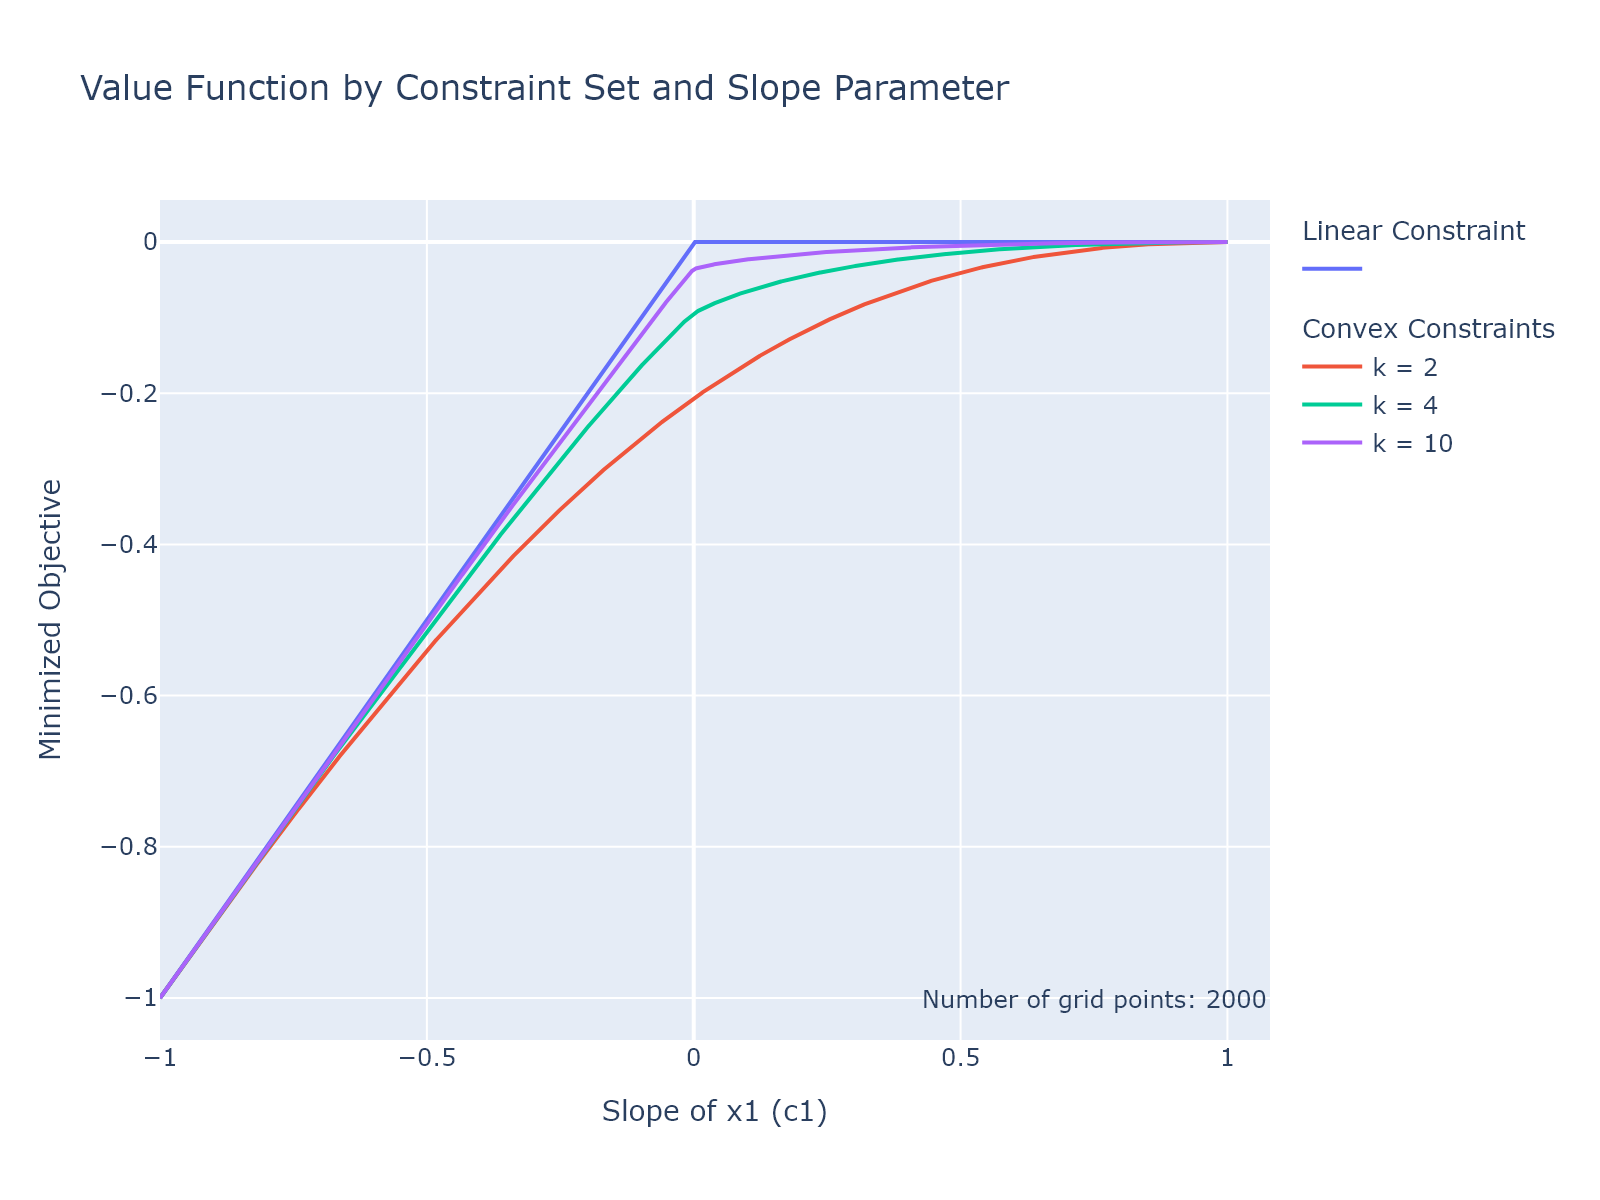
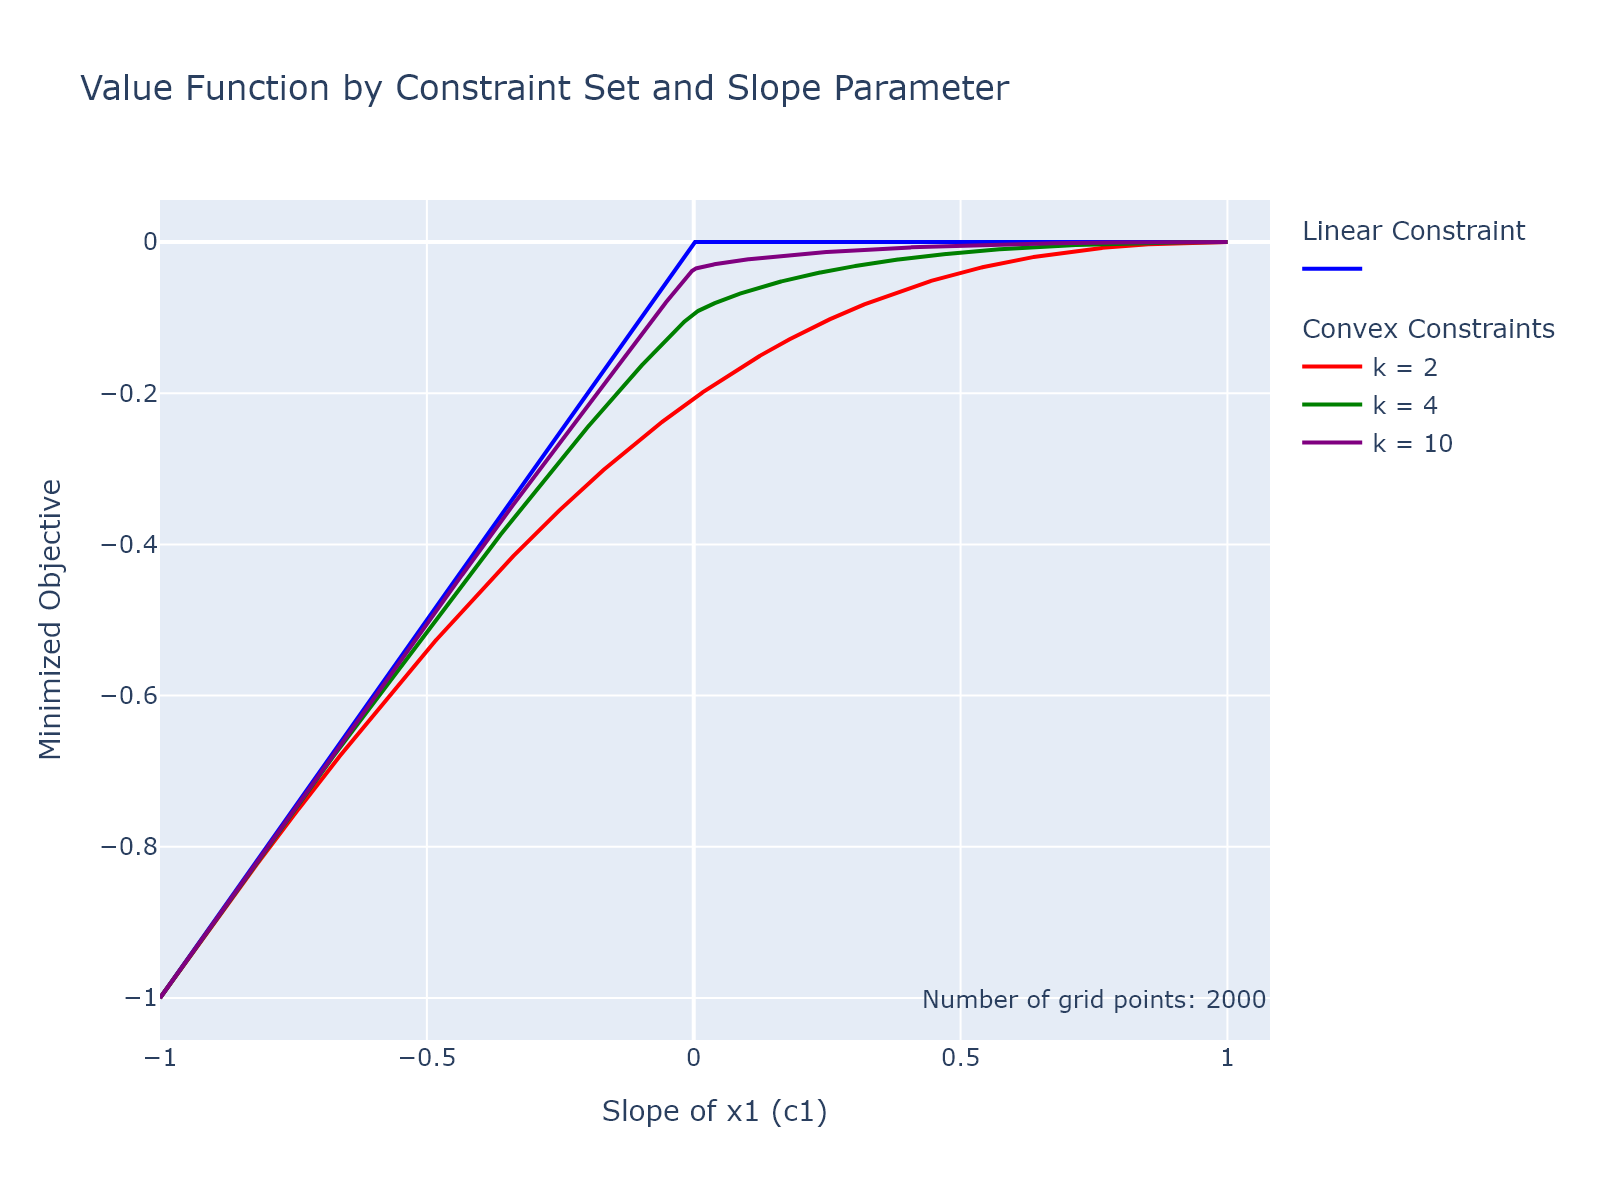
Adjust plots.

diff --git a/src/lp_relax/plots/task_plot_relaxation_bootstrap.py b/src/lp_relax/plots/task_plot_relaxation_bootstrap.py
@@ -88,42 +88,74 @@ for id_, kwargs in ID_TO_KWARGS.items():
         """Plot coverage by method and slope parameter."""
         combined = pd.read_pickle(path_to_combined)
 
-        data = combined.groupby(["method", "slope"]).mean().reset_index()
+        color_to_k_convex = {
+            "linear": "blue",
+            "convex_sphere_2": "red",
+            "convex_sphere_4": "green",
+            "convex_sphere_10": "purple",
+        }
+
+        data = combined.groupby(["method", "slope", "num_obs"]).mean().reset_index()
+
+        num_obs_to_plot = data["num_obs"].unique()
+        methods_to_plot = data.method.unique()
 
         fig = go.Figure()
 
-        for method in data.method.unique():
-            sub_data = data[data.method == method]
+        num_obs_to_dash = {1_000: "solid", 10_000: "dash"}
 
-            fig.add_trace(
-                go.Scatter(
-                    y=sub_data[stat_to_plot],
-                    x=sub_data["slope"],
-                    mode="lines+markers",
-                    name=f"{method.replace('_', ' ').capitalize()}",
-                ),
-            )
+        for num_obs in num_obs_to_plot:
+            for method in methods_to_plot:
+                sub_data = data[data.method == method]
+                sub_data = sub_data[sub_data.num_obs == num_obs]
+
+                fig.add_trace(
+                    go.Scatter(
+                        y=sub_data[stat_to_plot],
+                        x=sub_data["slope"],
+                        mode="lines+markers",
+                        line=dict(
+                            dash=num_obs_to_dash[num_obs],
+                            color=color_to_k_convex[method],
+                        ),
+                        marker=dict(color=color_to_k_convex[method]),
+                        name=f"N={num_obs}",
+                        legendgroup=method,
+                        legendgrouptitle=dict(
+                            text=f"{method.replace('_', ' ').capitalize()}"
+                        ),
+                    ),
+                )
 
         stat_to_title = {
             "covers_lower_one_sided": "Coverage Lower One-Sided CI",
             "lower_ci_one_sided": "Mean Lower One-Sided CI",
         }
 
+        subtitle = "<br><sup>Nominal Coverage 95%</sup>"
+
+        stat_to_x_axis_title = {
+            "covers_lower_one_sided": "Coverage",
+            "lower_ci_one_sided": "Average",
+        }
+
         fig.update_layout(
-            title=f"{stat_to_title} by Method and Parameter",
+            title=(
+                f"{stat_to_title[stat_to_plot]} by Method and Parameter" f"{subtitle}"
+            ),
             xaxis_title="Slope",
-            yaxis_title="Coverage",
+            yaxis_title=f"{stat_to_x_axis_title[stat_to_plot]}",
         )
 
         # Add note: Data is Normal with sigma = 1
         fig.add_annotation(
-            text="Data: Normal(, 1)",
+            text="Data: Normal(Slope, 1)",
             xref="paper",
             yref="paper",
             x=1,
-            y=-0.1,
+            y=-0.2,
             showarrow=False,
         )
 
         fig.write_html(path_to_plot_html)
-        fig.write_html(path_to_plot_png)
+        fig.write_image(path_to_plot_png)

diff --git a/src/lp_relax/plots/task_plot_relaxation_paper.py b/src/lp_relax/plots/task_plot_relaxation_paper.py
@@ -26,13 +26,13 @@ class _Arguments(NamedTuple):
 
 ID_TO_KWARGS = {
     f"plot_{slope_grid}": _Arguments(
-        path_to_plot_solutions=BLD.parent
-        / "documents"
+        path_to_plot_solutions=BLD
         / "figures"
+        / "relaxation_bootstrap"
         / "solutions_by_constraint_set_dim_2.png",
-        path_to_plot_value=BLD.parent
-        / "documents"
+        path_to_plot_value=BLD
         / "figures"
+        / "relaxation_bootstrap"
         / "value_function_by_constraint_set_dim_2.png",
         slope_grid=slope_grid,
         problems=problems_to_sim,
@@ -49,6 +49,14 @@ for id_, kwargs in ID_TO_KWARGS.items():
         slope_grid: np.ndarray,
         problems: dict[str, partial],
     ) -> None:
+        color_linear = "blue"
+
+        color_to_k_convex = {
+            2: "red",
+            4: "green",
+            10: "purple",
+        }
+
         # Split problems into linear and convex
         convex_problems = {k: v for k, v in problems.items() if k != "linear"}
 
@@ -76,6 +84,7 @@ for id_, kwargs in ID_TO_KWARGS.items():
                 mode="lines",
                 name="",
                 legendgroup="linear",
+                line=dict(color=color_linear),
                 legendgrouptitle={"text": "Linear Constraint"},
             )
         )
@@ -87,6 +96,7 @@ for id_, kwargs in ID_TO_KWARGS.items():
                     y=funs[k],
                     mode="lines",
                     legendgroup="convex",
+                    line=dict(color=color_to_k_convex[int(k.split("_")[-1])]),
                     name=f"k = {k.split('_')[-1]}",
                     legendgrouptitle={"text": "Convex Constraints"},
                 )
@@ -123,14 +133,6 @@ for id_, kwargs in ID_TO_KWARGS.items():
         dash_to_name = {
             "x1": "solid",
             "x2": "dash",
-        }
-
-        color_linear = "blue"
-
-        color_to_k_convex = {
-            2: "red",
-            4: "green",
-            10: "purple",
         }
 
         for col, name in col_to_name.items():
